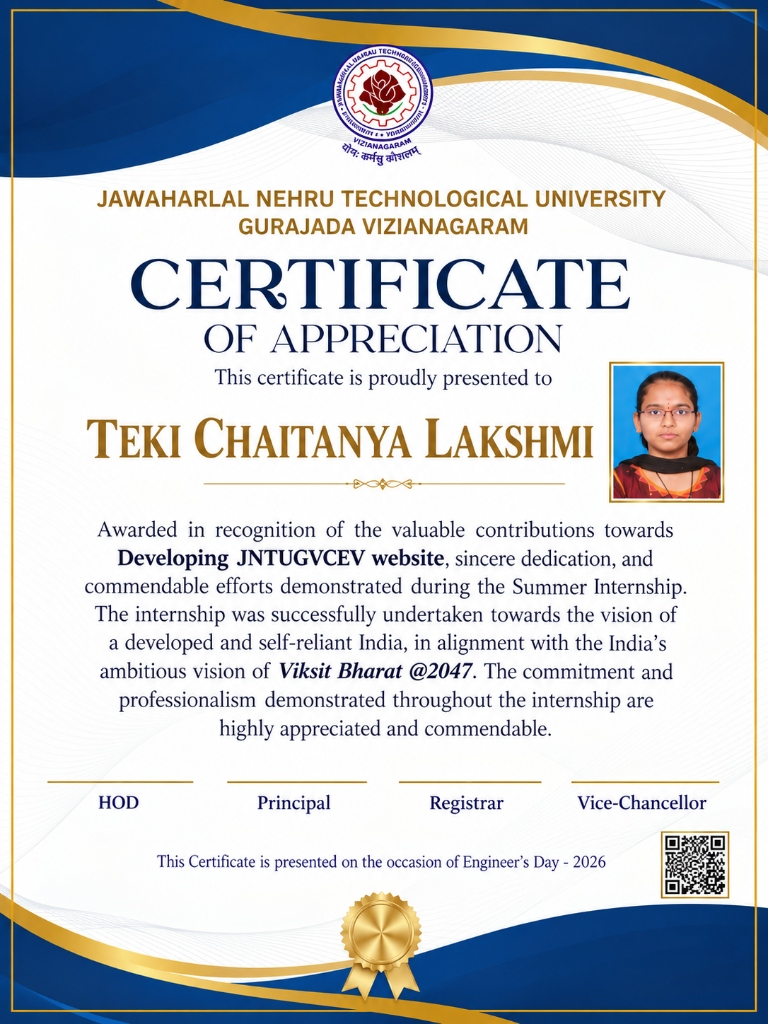
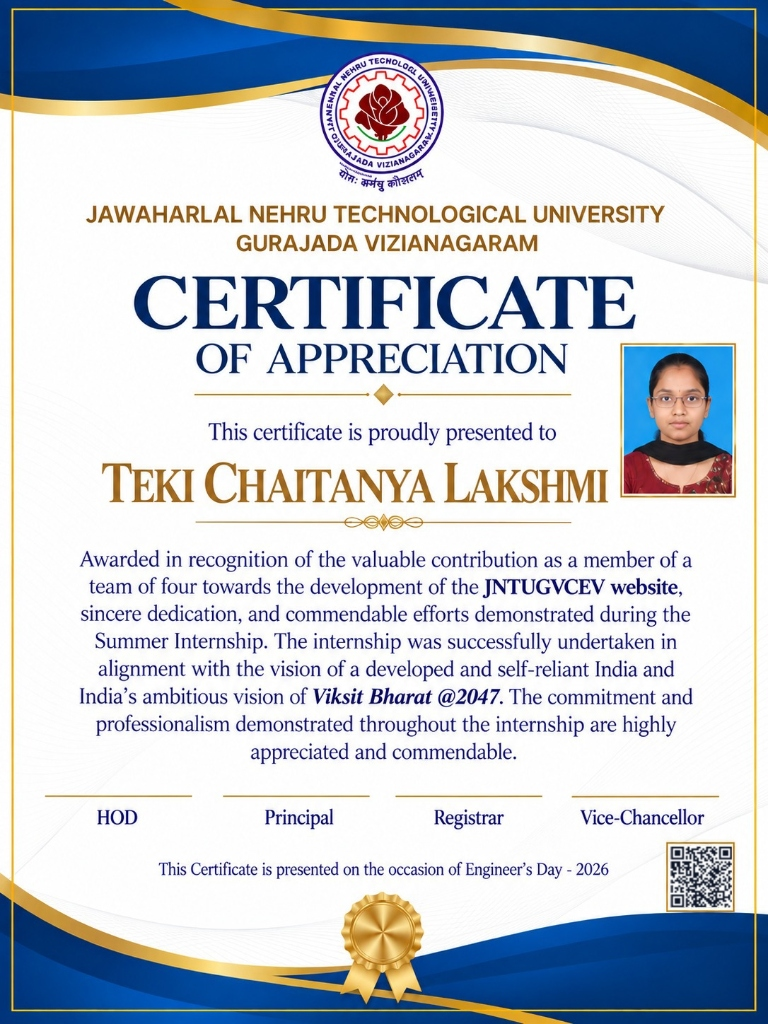
chore: replace certificate image for JNTUGV-ED26-001 while preserving QR and verification links

diff --git a/src/components/certifications/DigitalCertificateTwin.tsx b/src/components/certifications/DigitalCertificateTwin.tsx
@@ -106,12 +106,12 @@ export function DigitalCertificateTwin({ certificate, verificationUrl }: Props) 
         {/* Citation Text */}
         <div className="max-w-3xl mx-auto text-xs sm:text-sm md:text-[15px] leading-relaxed text-slate-800 text-justify sm:text-center font-serif px-2 sm:px-6 my-4">
           <p>
-            Awarded in recognition of the valuable contributions towards{" "}
-            <strong className="text-blue-950 font-bold">Developing JNTUGVCEV website</strong>, sincere
+            Awarded in recognition of the valuable contribution as a member of a team of four towards
+            the development of the <strong className="text-blue-950 font-bold">JNTUGVCEV website</strong>, sincere
             dedication, and commendable efforts demonstrated during the{" "}
             <strong className="text-blue-950 font-bold">Summer Internship</strong>. The internship was
-            successfully undertaken towards the vision of a developed and self-reliant India, in
-            alignment with India's ambitious vision of{" "}
+            successfully undertaken in alignment with the vision of a developed and self-reliant India
+            and India's ambitious vision of{" "}
             <strong className="text-amber-900 font-bold italic">Viksit Bharat @2047</strong>. The
             commitment and professionalism demonstrated throughout the internship are highly appreciated
             and commendable.

diff --git a/src/data/certifications-2026.ts b/src/data/certifications-2026.ts
@@ -48,7 +48,7 @@ export const ENGINEERS_DAY_2026_CERTIFICATES: CertificationRecord[] = [
     formattedDate: "September 15, 2026",
     certificateType: "Appreciation",
     citation:
-      "Awarded in recognition of the valuable contributions towards Developing JNTUGVCEV website, sincere dedication, and commendable efforts demonstrated during the Summer Internship. The internship was successfully undertaken towards the vision of a developed and self-reliant India, in alignment with the India's ambitious vision of Viksit Bharat @2047. The commitment and professionalism demonstrated throughout the internship are highly appreciated and commendable.",
+      "Awarded in recognition of the valuable contribution as a member of a team of four towards the development of the JNTUGVCEV website, sincere dedication, and commendable efforts demonstrated during the Summer Internship. The internship was successfully undertaken in alignment with the vision of a developed and self-reliant India and India's ambitious vision of Viksit Bharat @2047. The commitment and professionalism demonstrated throughout the internship are highly appreciated and commendable.",
     status: "VERIFIED",
     verificationHash: "SHA256: 8c94a20b771e16bfa58d4a7c06c3912a7bf89d2c41804b7e923e7102e3b15ad6",
     securityCode: "JNTUGV-AUTH-2026-VB47",
